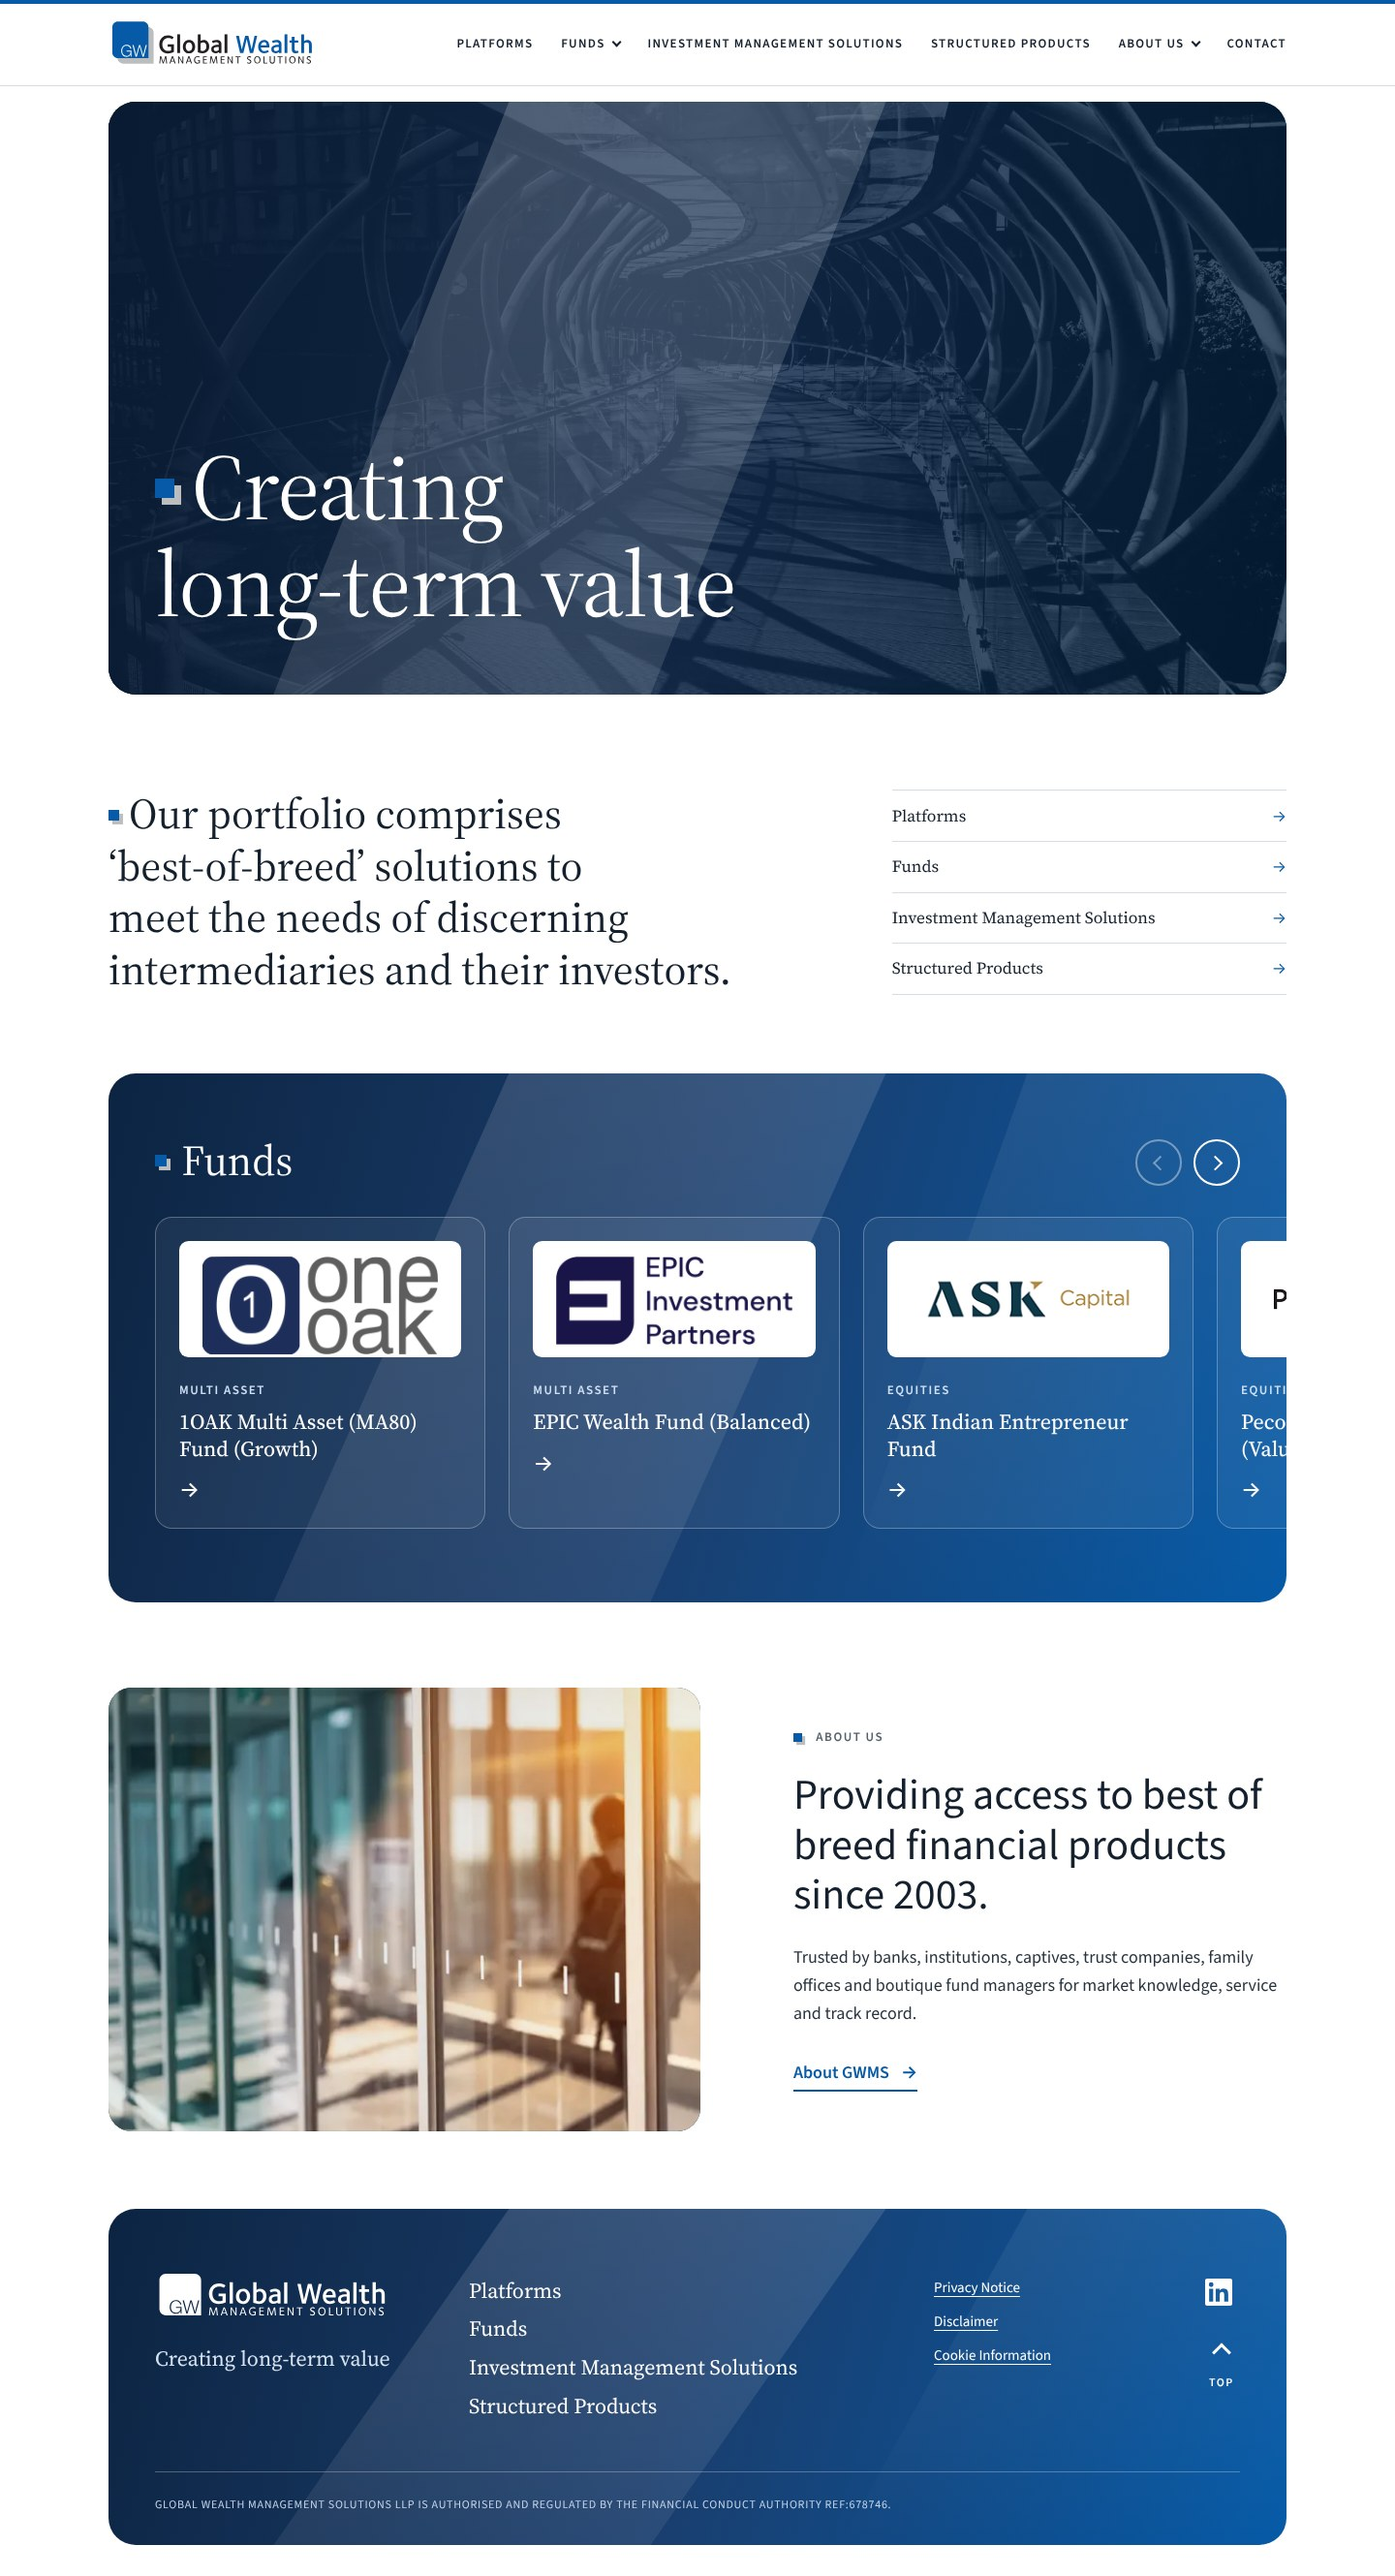
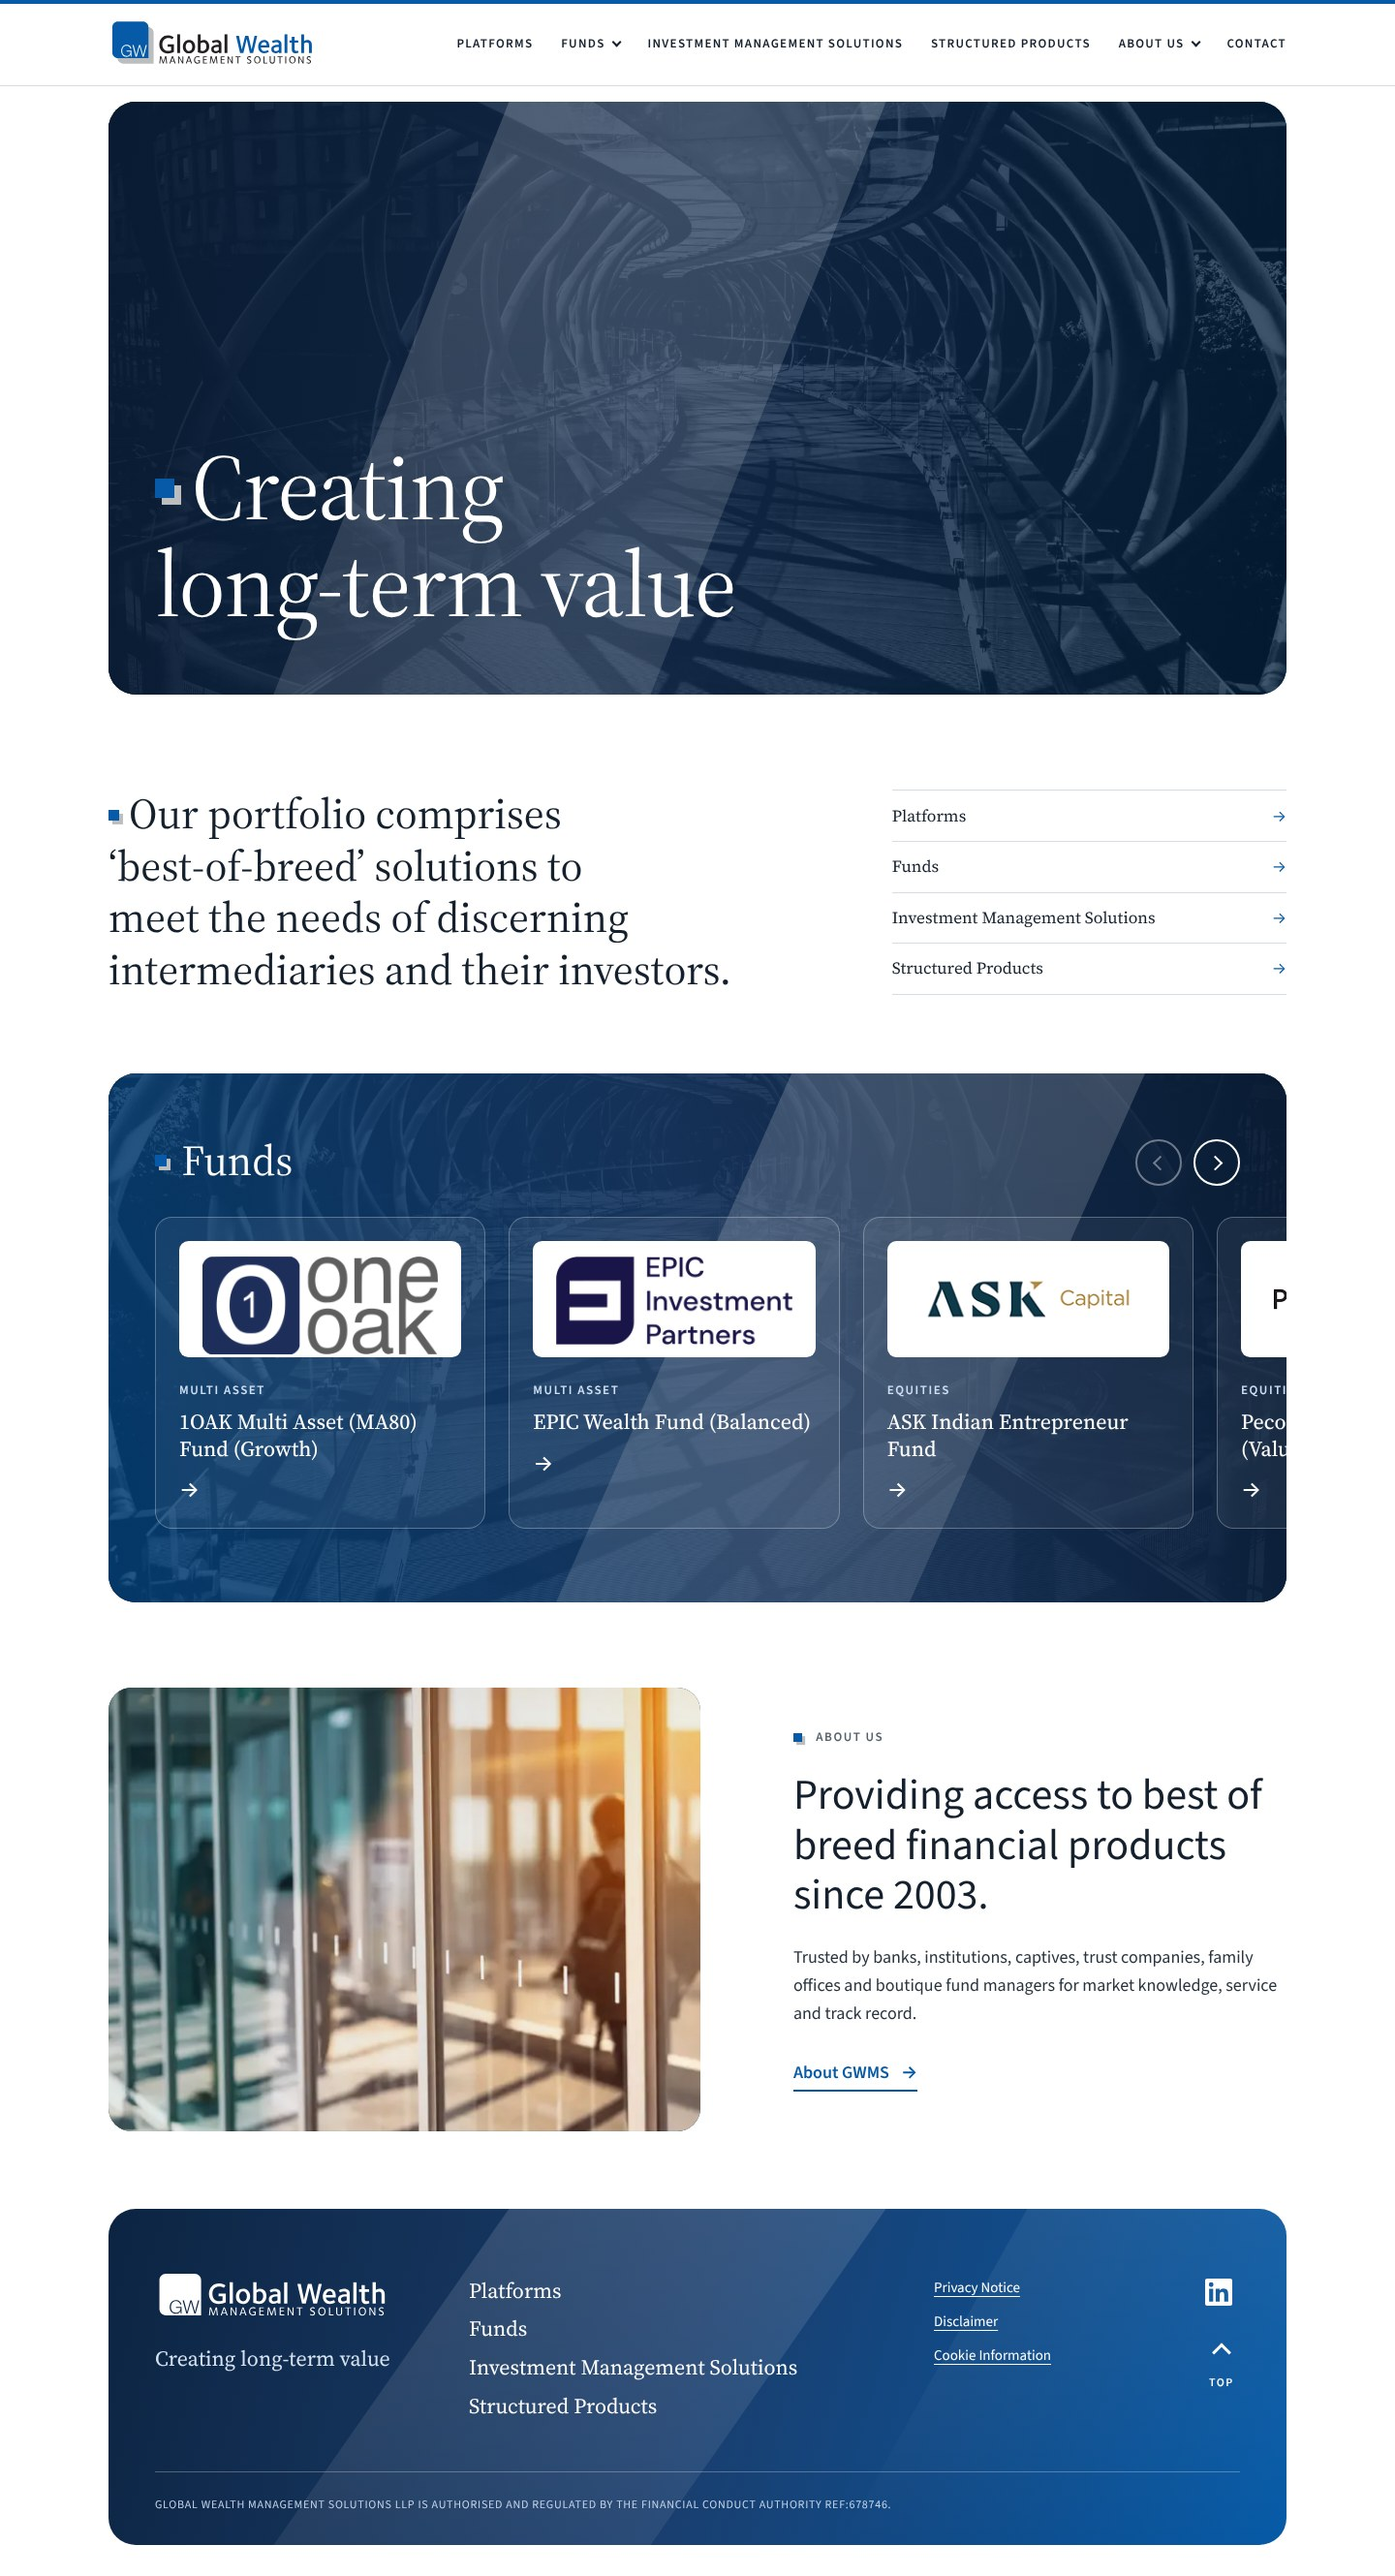
Concept home: Funds panel uses mirrored photo, veil and shifted band like the hero

Changed region(s): [[0.4688, 0.4058, 0.9375, 0.6243], [0.0625, 0.4058, 0.5625, 0.6243]]

diff --git a/preview/css/concept.css b/preview/css/concept.css
@@ -133,3 +133,14 @@
 .hero--framed { --band-1: rgba(255, 255, 255, 0.18); --band-2: rgba(255, 255, 255, 0.12); }
 .hero--framed::before { z-index: 0; }
 .hero--framed .hero__inner { position: relative; z-index: 1; }
+
+/* ---- Funds panel: same recipe as the hero (photo + veil + diagonal band), placed differently ----
+   photo mirrored and cropped low-right, bluer/lighter veil, band moved to the right. */
+.funds__panel { --band-1: rgba(255, 255, 255, 0.18); --band-2: rgba(255, 255, 255, 0.12); }
+.funds__media, .funds__media img { position: absolute; inset: 0; width: 100%; height: 100%; z-index: -3; }
+.funds__media img { object-fit: cover; object-position: 30% 85%; transform: scaleX(-1); }
+.funds__panel::after { /* veil, full-bleed */
+  clip-path: none; inset: 0; z-index: -2;
+  background: linear-gradient(255deg, rgba(10, 30, 56, 0.90) 0%, rgba(26, 61, 108, 0.80) 48%, rgba(6, 90, 167, 0.62) 100%);
+}
+.funds__panel::before { z-index: -1; clip-path: polygon(58% 0, 88% 0, 68% 100%, 38% 100%); }

diff --git a/preview/concept-home/index.html b/preview/concept-home/index.html
@@ -122,6 +122,10 @@
 <section class="funds" aria-labelledby="funds-title">
   <div class="frame">
     <div class="funds__panel gradient on-dark">
+      <picture class="funds__media">
+        <source type="image/webp" srcset="../img/hero-800.webp 800w, ../img/hero-1280.webp 1280w, ../img/hero-1920.webp 1920w" sizes="100vw">
+        <img src="../img/hero-1280.webp" width="1280" height="928" alt="" loading="lazy">
+      </picture>
       <div class="funds__head">
         <h2 class="funds__title" id="funds-title"><span class="motif" aria-hidden="true"></span>Funds</h2>
         <div class="funds__controls">

diff --git a/tools/make_preview.py b/tools/make_preview.py
@@ -278,6 +278,10 @@ CONCEPT = f'''<div class="frame">
 <section class="funds" aria-labelledby="funds-title">
   <div class="frame">
     <div class="funds__panel gradient on-dark">
+      <picture class="funds__media">
+        <source type="image/webp" srcset="/img/hero-800.webp 800w, /img/hero-1280.webp 1280w, /img/hero-1920.webp 1920w" sizes="100vw">
+        <img src="/img/hero-1280.webp" width="1280" height="928" alt="" loading="lazy">
+      </picture>
       <div class="funds__head">
         <h2 class="funds__title" id="funds-title"><span class="motif" aria-hidden="true"></span>Funds</h2>
         <div class="funds__controls">
